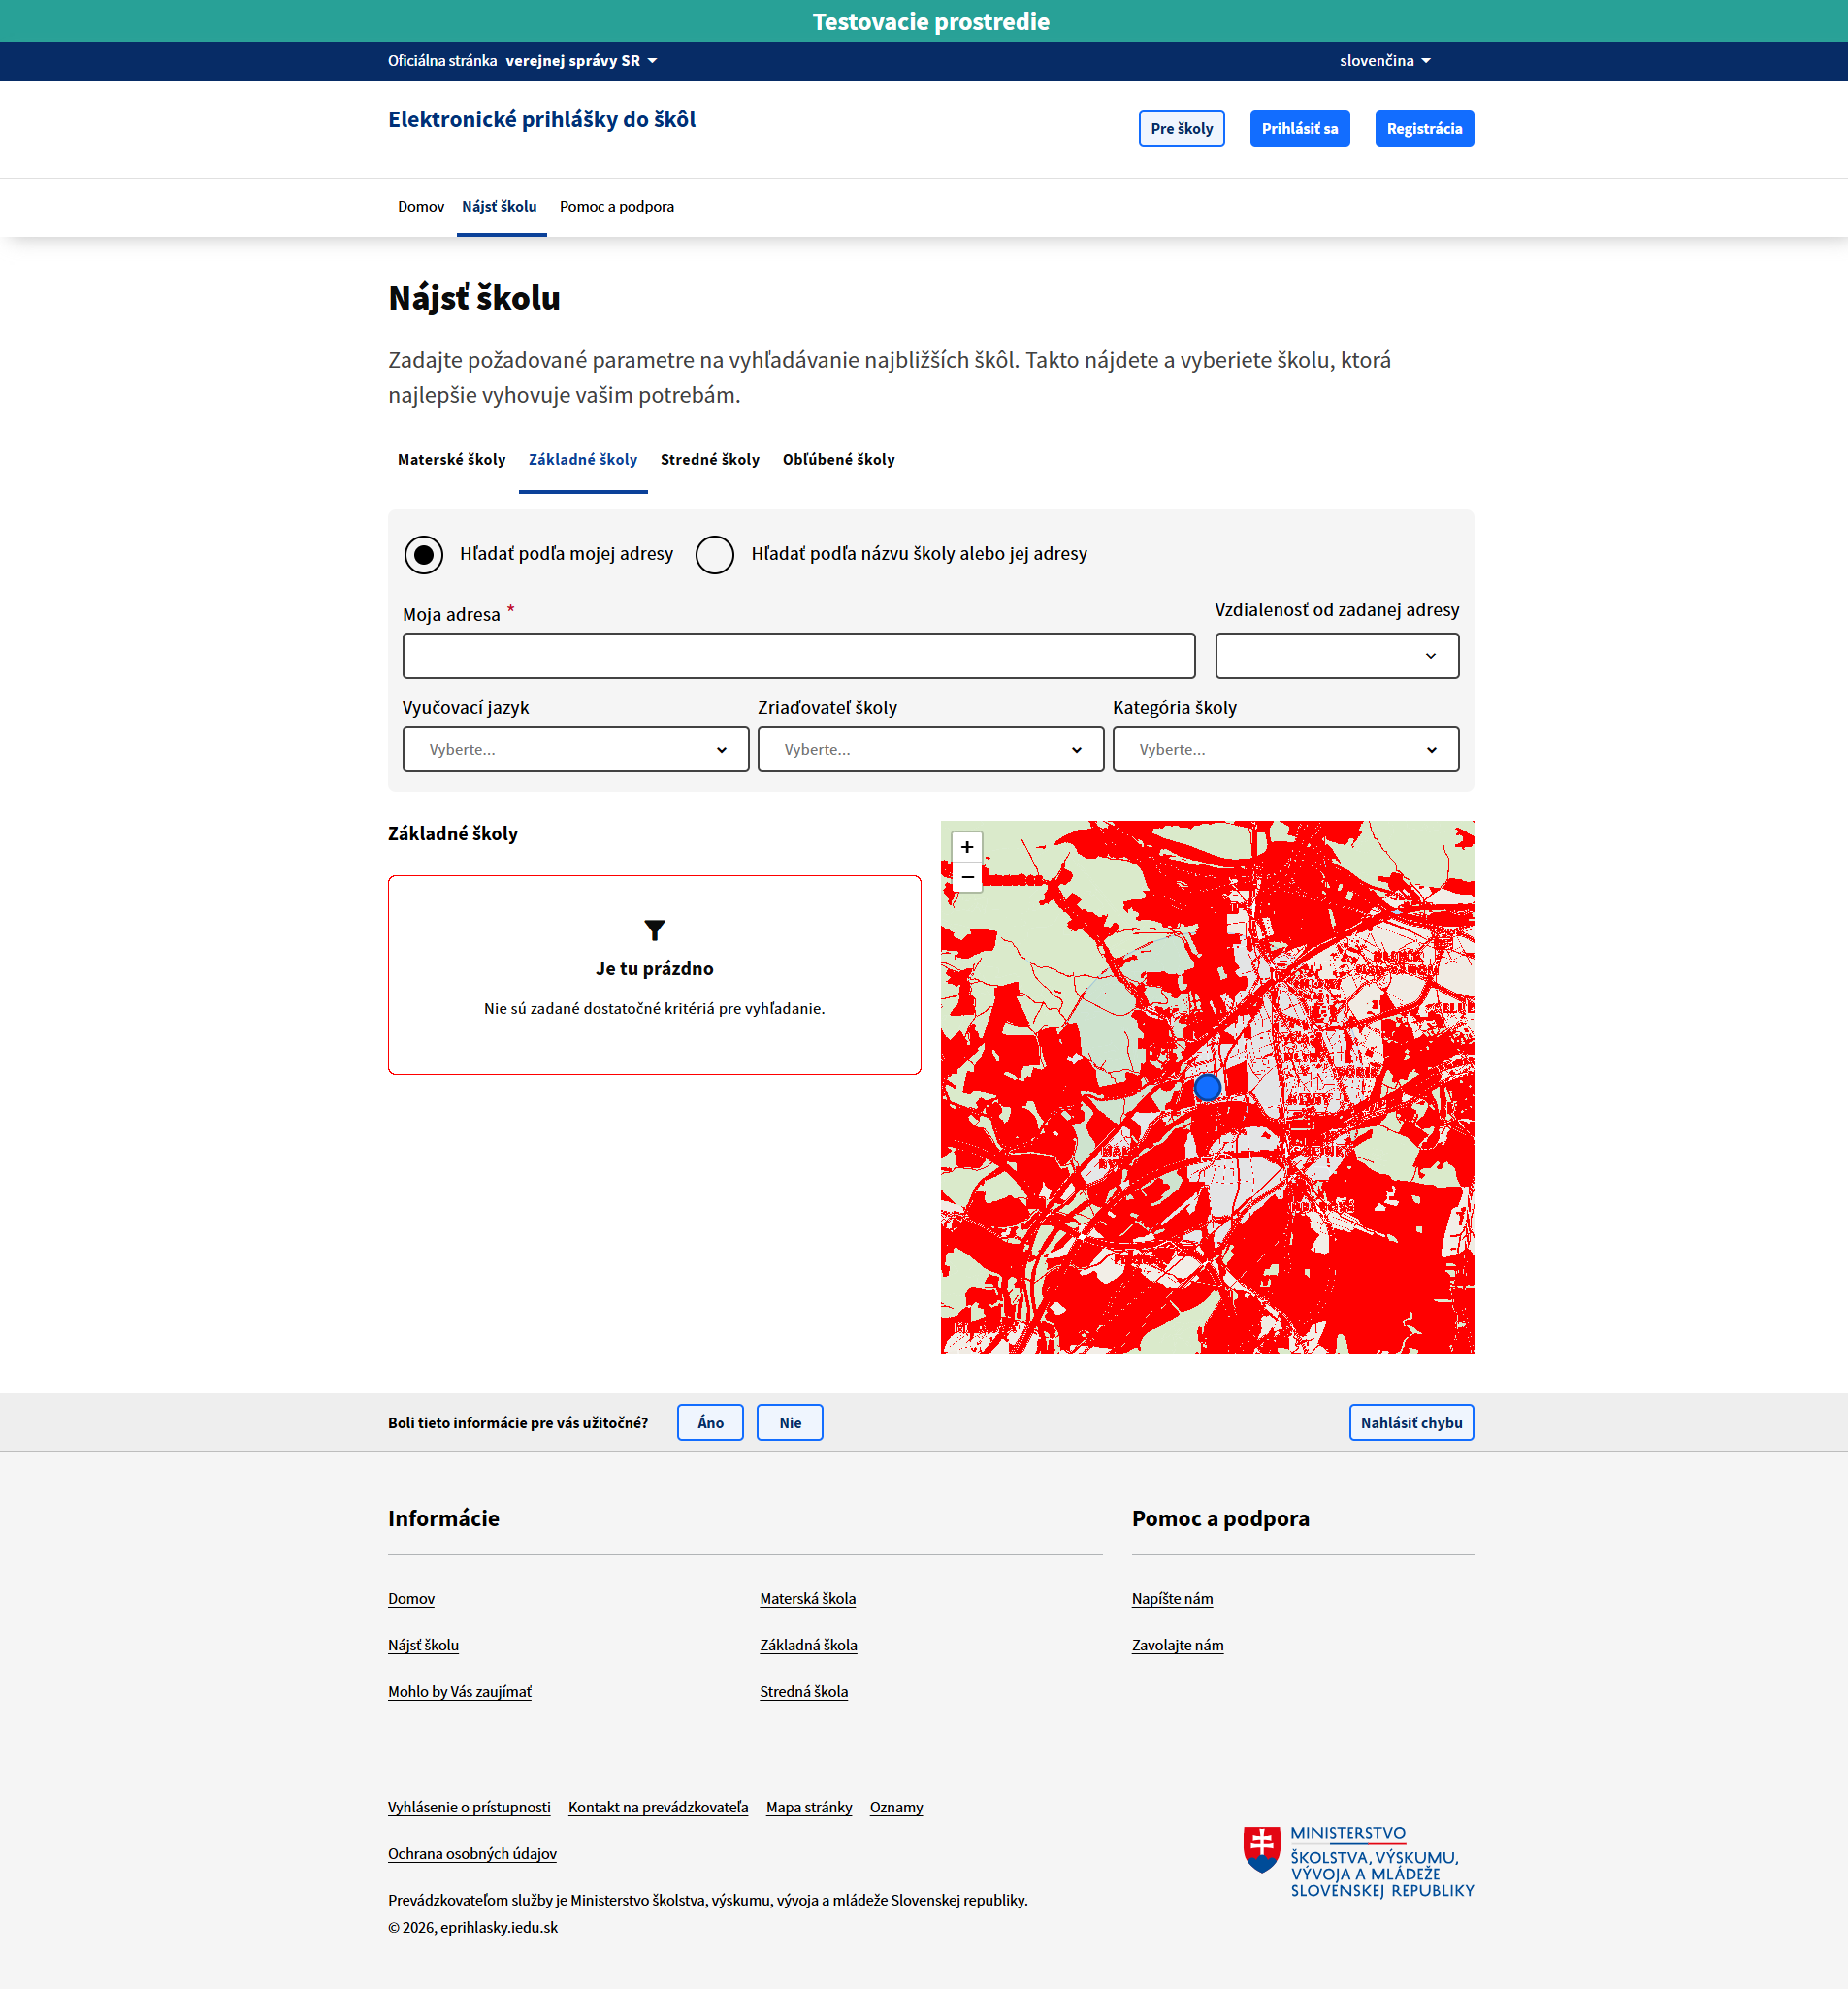
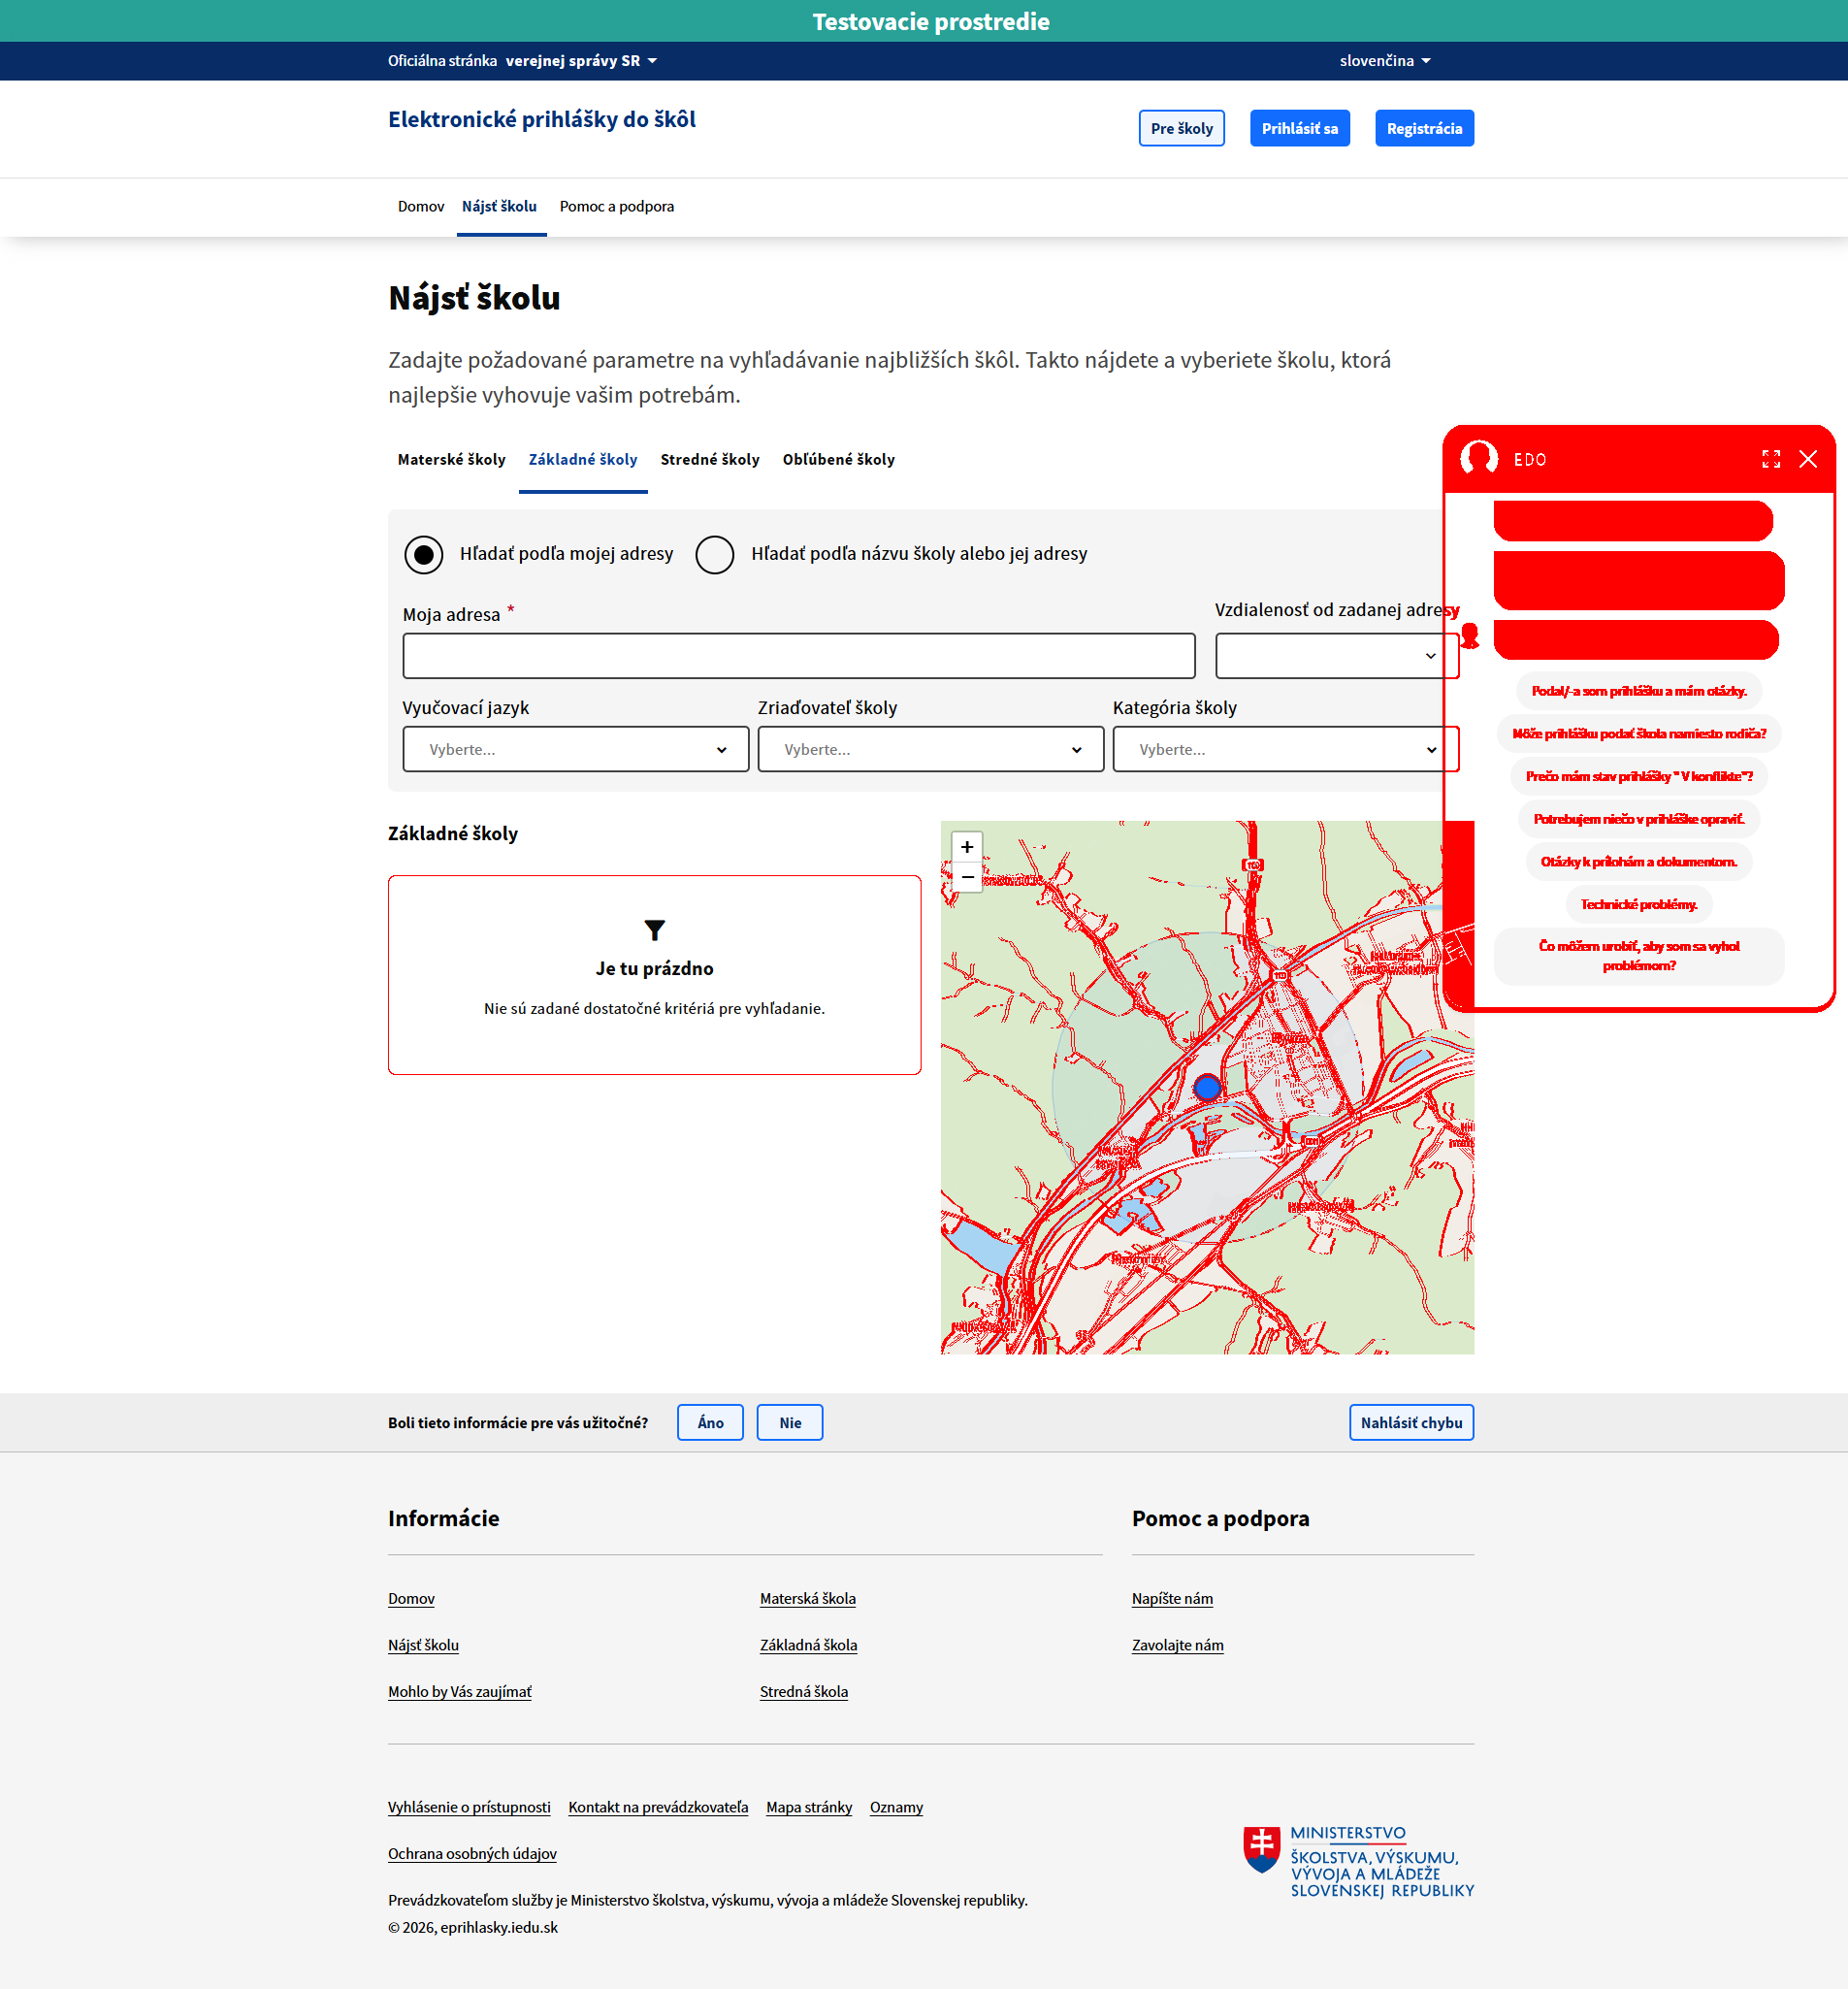
updated expected texts & fixed xpath in address input

Changed region(s): [[0.4955, 0.4059, 0.8052, 0.6868], [0.7743, 0.1873, 1.0, 0.4995], [0.8672, 0.4683, 0.9291, 0.4995]]

diff --git a/Test Suites/ePrihlášky - Release2.ts b/Test Suites/ePrihlášky - Release2.ts
@@ -21,7 +21,7 @@
    <testCaseLink>
       <guid>8ccfd7d6-1260-4192-8ef4-6f907af59c19</guid>
       <isReuseDriver>false</isReuseDriver>
-      <isRun>false</isRun>
+      <isRun>true</isRun>
       <testCaseId>Test Cases/Release 2/Riaditeľ - správa školy - Profil školy SŠ</testCaseId>
       <usingDataBindingAtTestSuiteLevel>true</usingDataBindingAtTestSuiteLevel>
    </testCaseLink>
@@ -49,7 +49,7 @@
    <testCaseLink>
       <guid>82c3651e-2db7-46a9-a90e-23f1e11e2267</guid>
       <isReuseDriver>false</isReuseDriver>
-      <isRun>false</isRun>
+      <isRun>true</isRun>
       <testCaseId>Test Cases/Release 2/Riaditeľ SŠ - papierová prihláška na SŠ - nie je RFO</testCaseId>
       <usingDataBindingAtTestSuiteLevel>true</usingDataBindingAtTestSuiteLevel>
    </testCaseLink>
@@ -70,28 +70,28 @@
    <testCaseLink>
       <guid>1ecd3deb-d9aa-49cd-be43-3bc45312e1e8</guid>
       <isReuseDriver>false</isReuseDriver>
-      <isRun>false</isRun>
+      <isRun>true</isRun>
       <testCaseId>Test Cases/Release 2/ZZ - má IFO - zmena údajov v profile</testCaseId>
       <usingDataBindingAtTestSuiteLevel>true</usingDataBindingAtTestSuiteLevel>
    </testCaseLink>
    <testCaseLink>
       <guid>adc0b200-c1a0-45db-934f-0d2c00ab51de</guid>
       <isReuseDriver>false</isReuseDriver>
-      <isRun>false</isRun>
+      <isRun>true</isRun>
       <testCaseId>Test Cases/Release 2/ZZ - nemá IFO - má RČ - zmena údajov v profile</testCaseId>
       <usingDataBindingAtTestSuiteLevel>true</usingDataBindingAtTestSuiteLevel>
    </testCaseLink>
    <testCaseLink>
       <guid>3211946c-ad07-462f-82d4-c659c90d4b1c</guid>
       <isReuseDriver>false</isReuseDriver>
-      <isRun>false</isRun>
+      <isRun>true</isRun>
       <testCaseId>Test Cases/Release 2/ZZ - nemá IFO - nemá RČ - zmena údajov v profile</testCaseId>
       <usingDataBindingAtTestSuiteLevel>true</usingDataBindingAtTestSuiteLevel>
    </testCaseLink>
    <testCaseLink>
       <guid>6f453507-aa27-48d0-984a-001e47dcbb71</guid>
       <isReuseDriver>false</isReuseDriver>
-      <isRun>false</isRun>
+      <isRun>true</isRun>
       <testCaseId>Test Cases/Release 2/ZZ - Registrácia - osoba bez IFO</testCaseId>
       <usingDataBindingAtTestSuiteLevel>true</usingDataBindingAtTestSuiteLevel>
    </testCaseLink>
@@ -112,21 +112,21 @@
    <testCaseLink>
       <guid>16e4a18b-b781-4966-bd6e-dcf87293bab4</guid>
       <isReuseDriver>false</isReuseDriver>
-      <isRun>false</isRun>
+      <isRun>true</isRun>
       <testCaseId>Test Cases/Release 2/Verejná zóna - nájsť školu - MŠ</testCaseId>
       <usingDataBindingAtTestSuiteLevel>true</usingDataBindingAtTestSuiteLevel>
    </testCaseLink>
    <testCaseLink>
       <guid>929e6ee6-81b7-4f5d-8aae-590b57a3413d</guid>
       <isReuseDriver>false</isReuseDriver>
-      <isRun>false</isRun>
+      <isRun>true</isRun>
       <testCaseId>Test Cases/Release 2/Verejná zóna - nájsť školu - SŠ</testCaseId>
       <usingDataBindingAtTestSuiteLevel>true</usingDataBindingAtTestSuiteLevel>
    </testCaseLink>
    <testCaseLink>
       <guid>6f03b434-18f7-4bee-a2bd-7366874c72f2</guid>
       <isReuseDriver>false</isReuseDriver>
-      <isRun>false</isRun>
+      <isRun>true</isRun>
       <testCaseId>Test Cases/Release 2/Verejná zóna - nájsť školu - ZŠ</testCaseId>
       <usingDataBindingAtTestSuiteLevel>true</usingDataBindingAtTestSuiteLevel>
    </testCaseLink>
@@ -147,28 +147,28 @@
    <testCaseLink>
       <guid>ca7e4338-900e-4668-8a90-be4eb3aeadfb</guid>
       <isReuseDriver>false</isReuseDriver>
-      <isRun>false</isRun>
+      <isRun>true</isRun>
       <testCaseId>Test Cases/Release 2/Odbory - Pridať odbor</testCaseId>
       <usingDataBindingAtTestSuiteLevel>true</usingDataBindingAtTestSuiteLevel>
    </testCaseLink>
    <testCaseLink>
       <guid>fc1c2e01-e076-4f95-9f98-ce44f7e9446a</guid>
       <isReuseDriver>false</isReuseDriver>
-      <isRun>false</isRun>
+      <isRun>true</isRun>
       <testCaseId>Test Cases/Release 2/Odbory - Odstrániť odbor</testCaseId>
       <usingDataBindingAtTestSuiteLevel>true</usingDataBindingAtTestSuiteLevel>
    </testCaseLink>
    <testCaseLink>
       <guid>c5a409cf-2975-4a38-951b-45befa0289d0</guid>
       <isReuseDriver>false</isReuseDriver>
-      <isRun>false</isRun>
+      <isRun>true</isRun>
       <testCaseId>Test Cases/Release 2/Kritériá - Pridať kritériá</testCaseId>
       <usingDataBindingAtTestSuiteLevel>true</usingDataBindingAtTestSuiteLevel>
    </testCaseLink>
    <testCaseLink>
       <guid>a8c8f735-cd73-4764-ac88-74840b9072b3</guid>
       <isReuseDriver>false</isReuseDriver>
-      <isRun>false</isRun>
+      <isRun>true</isRun>
       <testCaseId>Test Cases/Release 2/Kritériá - Odstrániť kritériá</testCaseId>
       <usingDataBindingAtTestSuiteLevel>true</usingDataBindingAtTestSuiteLevel>
    </testCaseLink>

diff --git a/Object Repository/Zak_test/Release2/SpravaPouzivatelov/PridatPouzivatela/Page_Sprva koly  ePrihlky/div_Povinn polia s oznaen_sprava-pouzivatel_b8fd3d.rs b/Object Repository/Zak_test/Release2/SpravaPouzivatelov/PridatPouzivatela/Page_Sprva koly  ePrihlky/div_Povinn polia s oznaen_sprava-pouzivatel_b8fd3d.rs
@@ -11,7 +11,7 @@
       </entry>
       <entry>
          <key>XPATH</key>
-         <value>//div[@id='sprava-pouzivatelov']/div/div[2]/div/div/div[4]/div/div/div[3]/div</value>
+         <value>//div[@id='sprava-pouzivatelov']/div/div[2]/div/div/div[4]/div/div/div[2]/div[2]/div</value>
       </entry>
    </selectorCollection>
    <selectorMethod>XPATH</selectorMethod>
@@ -23,7 +23,7 @@
       <name>tag</name>
       <type>Main</type>
       <value>div</value>
-      <webElementGuid>07a3e364-a81b-4951-88a7-95de346562dd</webElementGuid>
+      <webElementGuid>27ede8f5-d057-4aba-8ba6-0410c1324514</webElementGuid>
    </webElementProperties>
    <webElementProperties>
       <isSelected>false</isSelected>
@@ -31,7 +31,7 @@
       <name>class</name>
       <type>Main</type>
       <value>sprava-pouzivatelov-controls initialized</value>
-      <webElementGuid>24c30f7e-d975-4a9c-b612-f7ce43bccdf6</webElementGuid>
+      <webElementGuid>66a8a484-927f-4b71-937f-ee2dfb70cbdd</webElementGuid>
    </webElementProperties>
    <webElementProperties>
       <isSelected>true</isSelected>
@@ -86,7 +86,7 @@ Kelmová Klaudia (EDUID: 930593021)Lemo Dušan (EDUID: 930593019)
 
                         
                     </value>
-      <webElementGuid>494e8e11-8a0d-4ad9-a113-8eea91076ffa</webElementGuid>
+      <webElementGuid>9e3524ef-798f-4763-b09a-518538d93925</webElementGuid>
    </webElementProperties>
    <webElementProperties>
       <isSelected>false</isSelected>
@@ -94,7 +94,7 @@ Kelmová Klaudia (EDUID: 930593021)Lemo Dušan (EDUID: 930593019)
       <name>xpath</name>
       <type>Main</type>
       <value>id(&quot;sprava-pouzivatelov&quot;)/div[@class=&quot;govuk-main-wrapper&quot;]/div[@class=&quot;sprava-pouzivatelov-add&quot;]/div[@class=&quot;govuk-form-group idsk-card card-sprava-pouzivatelov&quot;]/div[@class=&quot;idsk-card__content&quot;]/div[@class=&quot;sprava-pouzivatelov-controls initialized&quot;]</value>
-      <webElementGuid>b3680772-1087-4313-8ad6-2b22639803b1</webElementGuid>
+      <webElementGuid>94760684-f9ef-430d-b330-336a51497b4c</webElementGuid>
    </webElementProperties>
    <webElementXpaths>
       <isSelected>true</isSelected>
@@ -102,7 +102,7 @@ Kelmová Klaudia (EDUID: 930593021)Lemo Dušan (EDUID: 930593019)
       <name>xpath:idRelative</name>
       <type>Main</type>
       <value>//div[@id='sprava-pouzivatelov']/div/div[2]/div/div/div[4]</value>
-      <webElementGuid>db66dd3e-ef29-44f1-a4b2-44365526a25c</webElementGuid>
+      <webElementGuid>f7e068c0-0074-4f09-9245-a3e61c41496f</webElementGuid>
    </webElementXpaths>
    <webElementXpaths>
       <isSelected>false</isSelected>
@@ -110,7 +110,7 @@ Kelmová Klaudia (EDUID: 930593021)Lemo Dušan (EDUID: 930593019)
       <name>xpath:neighbor</name>
       <type>Main</type>
       <value>(.//*[normalize-space(text()) and normalize-space(.)='Povinné polia sú označené'])[1]/following::div[1]</value>
-      <webElementGuid>4df8dc69-811f-497e-9bcd-5dc9febc361b</webElementGuid>
+      <webElementGuid>8a6ce802-e427-4d1c-8c64-ebc398d83bf9</webElementGuid>
    </webElementXpaths>
    <webElementXpaths>
       <isSelected>false</isSelected>
@@ -118,7 +118,7 @@ Kelmová Klaudia (EDUID: 930593021)Lemo Dušan (EDUID: 930593019)
       <name>xpath:neighbor</name>
       <type>Main</type>
       <value>(.//*[normalize-space(text()) and normalize-space(.)='Vyhľadajte a zapojte odborníkov z vašej školy do procesu kontroly prihlášok.'])[1]/following::div[2]</value>
-      <webElementGuid>1a92dfd6-8ad6-499c-b83c-9deeec1e5564</webElementGuid>
+      <webElementGuid>8c605468-5a51-4252-83fb-0a71904014e7</webElementGuid>
    </webElementXpaths>
    <webElementXpaths>
       <isSelected>false</isSelected>
@@ -126,7 +126,7 @@ Kelmová Klaudia (EDUID: 930593021)Lemo Dušan (EDUID: 930593019)
       <name>xpath:position</name>
       <type>Main</type>
       <value>//div[2]/div/div/div[4]</value>
-      <webElementGuid>873d8a42-cdcc-4860-8df4-5c2d10ed66c5</webElementGuid>
+      <webElementGuid>fb8d2954-27d2-4d52-aa64-591ac9fea10d</webElementGuid>
    </webElementXpaths>
    <webElementXpaths>
       <isSelected>false</isSelected>
@@ -228,6 +228,6 @@ Kelmová Klaudia (EDUID: 930593021)Lemo Dušan (EDUID: 930593019)
 
                         
                     ')]</value>
-      <webElementGuid>96df97d1-d5c2-4e11-9e69-ede31f9915ad</webElementGuid>
+      <webElementGuid>84797e0e-1934-4d3a-a502-97d402ac215c</webElementGuid>
    </webElementXpaths>
 </WebElementEntity>

diff --git a/Object Repository/Zak_test/Release2/SpravaPouzivatelov/PridatPouzivatela/Page_Sprva koly  ePrihlky/div_Povinn polia s oznaen_sprava-pouzivatel_b8fd3d_1.rs b/Object Repository/Zak_test/Release2/SpravaPouzivatelov/PridatPouzivatela/Page_Sprva koly  ePrihlky/div_Povinn polia s oznaen_sprava-pouzivatel_b8fd3d_1.rs
@@ -11,7 +11,7 @@
       </entry>
       <entry>
          <key>XPATH</key>
-         <value>//div[@id='sprava-pouzivatelov']/div/div[2]/div/div/div[4]/div/div/div[3]/div</value>
+         <value>//div[@id='sprava-pouzivatelov']/div/div[2]/div/div/div[4]/div/div/div[2]/div[2]/div</value>
       </entry>
    </selectorCollection>
    <selectorMethod>XPATH</selectorMethod>
@@ -23,7 +23,7 @@
       <name>tag</name>
       <type>Main</type>
       <value>div</value>
-      <webElementGuid>2677bb14-314f-421f-be50-593275d8c73a</webElementGuid>
+      <webElementGuid>221ce245-db86-4f8d-921e-2ad1d8da2b8e</webElementGuid>
    </webElementProperties>
    <webElementProperties>
       <isSelected>false</isSelected>
@@ -31,7 +31,7 @@
       <name>class</name>
       <type>Main</type>
       <value>sprava-pouzivatelov-controls initialized</value>
-      <webElementGuid>8be07c4f-7478-4e6f-8202-d52583c47c3c</webElementGuid>
+      <webElementGuid>ad4119c4-ebc3-49cc-9f59-ec3887ec6d2a</webElementGuid>
    </webElementProperties>
    <webElementProperties>
       <isSelected>true</isSelected>
@@ -86,7 +86,7 @@ Lemo Dušan (EDUID: 930593019)
 
                         
                     </value>
-      <webElementGuid>03ccd3bd-3347-410b-9d05-336fd037e1f6</webElementGuid>
+      <webElementGuid>7f217a2b-c4a8-4c70-b193-3cc4d7f701da</webElementGuid>
    </webElementProperties>
    <webElementProperties>
       <isSelected>false</isSelected>
@@ -94,7 +94,7 @@ Lemo Dušan (EDUID: 930593019)
       <name>xpath</name>
       <type>Main</type>
       <value>id(&quot;sprava-pouzivatelov&quot;)/div[@class=&quot;govuk-main-wrapper&quot;]/div[@class=&quot;sprava-pouzivatelov-add&quot;]/div[@class=&quot;govuk-form-group idsk-card card-sprava-pouzivatelov&quot;]/div[@class=&quot;idsk-card__content&quot;]/div[@class=&quot;sprava-pouzivatelov-controls initialized&quot;]</value>
-      <webElementGuid>c80d2113-52d4-4074-86c7-9f0db02750a4</webElementGuid>
+      <webElementGuid>a437e9e0-98fb-4bd7-98a2-046b0679d5d2</webElementGuid>
    </webElementProperties>
    <webElementXpaths>
       <isSelected>true</isSelected>
@@ -102,7 +102,7 @@ Lemo Dušan (EDUID: 930593019)
       <name>xpath:idRelative</name>
       <type>Main</type>
       <value>//div[@id='sprava-pouzivatelov']/div/div[2]/div/div/div[4]</value>
-      <webElementGuid>d32c7be1-8132-4406-a831-19f278c83380</webElementGuid>
+      <webElementGuid>56be0623-7ce8-4bf6-8314-d908b08a0767</webElementGuid>
    </webElementXpaths>
    <webElementXpaths>
       <isSelected>false</isSelected>
@@ -110,7 +110,7 @@ Lemo Dušan (EDUID: 930593019)
       <name>xpath:neighbor</name>
       <type>Main</type>
       <value>(.//*[normalize-space(text()) and normalize-space(.)='Povinné polia sú označené'])[1]/following::div[1]</value>
-      <webElementGuid>16628fab-d679-44b5-9930-7ce12275a3c8</webElementGuid>
+      <webElementGuid>a6285603-b8e4-49bc-90cc-c097706d1f94</webElementGuid>
    </webElementXpaths>
    <webElementXpaths>
       <isSelected>false</isSelected>
@@ -118,7 +118,7 @@ Lemo Dušan (EDUID: 930593019)
       <name>xpath:neighbor</name>
       <type>Main</type>
       <value>(.//*[normalize-space(text()) and normalize-space(.)='Vyhľadajte a zapojte odborníkov z vašej školy do procesu kontroly prihlášok.'])[1]/following::div[2]</value>
-      <webElementGuid>34c16033-8e54-4989-bacf-2228830db2da</webElementGuid>
+      <webElementGuid>38de244b-0a2e-4d12-a0ff-90600eb410a1</webElementGuid>
    </webElementXpaths>
    <webElementXpaths>
       <isSelected>false</isSelected>
@@ -126,7 +126,7 @@ Lemo Dušan (EDUID: 930593019)
       <name>xpath:position</name>
       <type>Main</type>
       <value>//div[2]/div/div/div[4]</value>
-      <webElementGuid>fd800117-58d7-4d69-8451-85429ffd6b67</webElementGuid>
+      <webElementGuid>8c514672-62d3-462d-a1aa-ff9bc3bd8251</webElementGuid>
    </webElementXpaths>
    <webElementXpaths>
       <isSelected>false</isSelected>
@@ -228,6 +228,6 @@ Lemo Dušan (EDUID: 930593019)
 
                         
                     ')]</value>
-      <webElementGuid>1e28124a-d4e0-4362-99f3-9ee27d6448b1</webElementGuid>
+      <webElementGuid>c2ec56cb-c8e1-4eac-9d11-78f67b54de0d</webElementGuid>
    </webElementXpaths>
 </WebElementEntity>